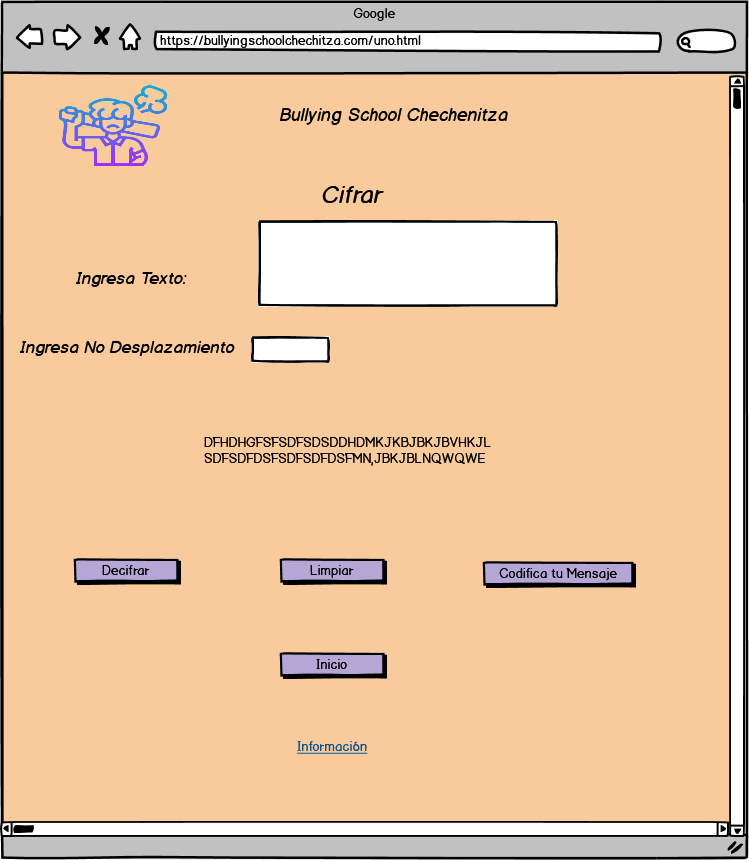
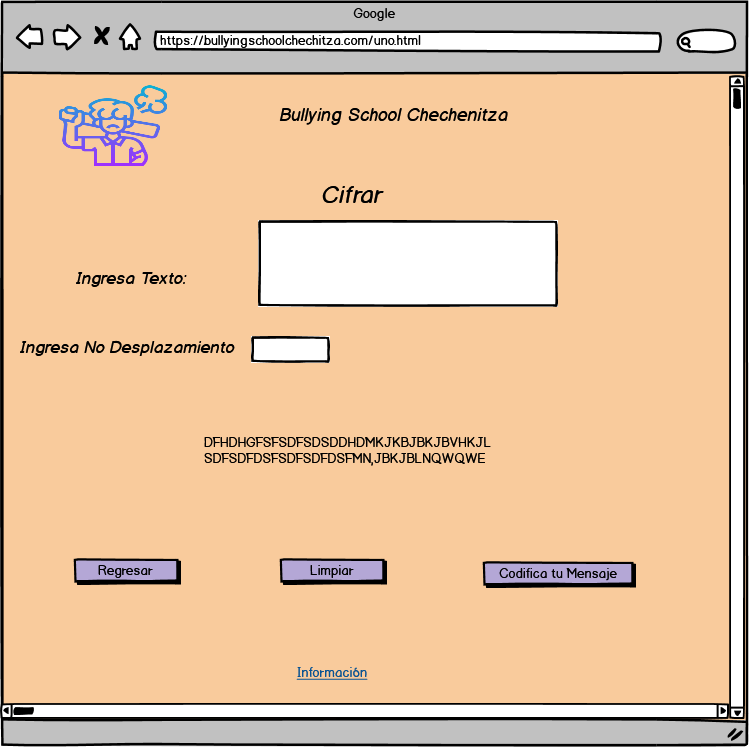
Revision Final

diff --git a/src/index.html b/src/index.html
@@ -40,6 +40,8 @@
         <!--CAJA CODIFICADO-->
 
         <div id="mensaje-encode" class="msg-encode">
+            <h1>Cifrar</h1>
+            <br>
             <p>Ingrese Su Mensaje:</p>
             <textarea id="box-msg-encode" class="box-msg-style" placeholder="Ingrese su mensaje..."></textarea>
             <div class="content-offset">
@@ -54,7 +56,7 @@
 
             <button  class="botonpantalla" id="regresar">Regresar</button>
             &nbsp;&nbsp;&nbsp;&nbsp; 
-            <button  class="botonpantalla" id="lim" onclick="location.reload()">Limpiar</button>
+            <button  class="botonpantalla" >Limpiar</button>
             &nbsp;&nbsp;&nbsp;&nbsp;
             <button id="btn_encode" class="botonpantalla">Codifica tu Mensaje</button>
             
@@ -63,6 +65,8 @@
         <!--CAJA DECODIFICADO-->
 
         <div id="mensaje-decode" class="msg-decode">
+            <h1>Descifrar</h1>
+            <br>
             <p>Ingrese Su Mensaje:</p>
             <textarea id="box-msg-decode" class="box-msg-style" placeholder="Ingrese su mensaje..."></textarea>
             <div class="content-offset">
@@ -76,13 +80,14 @@
             <br><br>
             <button  class="botonpantalla" id="regresar2">Regresar</button>
             &nbsp;&nbsp;&nbsp;&nbsp;
-            <button id="limp" class="botonpantalla">Limpiar</button>
+            <button id="pantalla-decode2" class="botonpantalla">Limpiar</button>
             &nbsp;&nbsp;&nbsp;&nbsp;
             <button id="btn_decode" class="botonpantalla">Decodifica tu Mensaje</button>
             
         </div>
     </section>
-
+    <br><br>
+    <footer><a href="#" id="info">Informacion</a></footer>
     <!--¡¡¡¡¡¡ESTE ARCHIVO NO SE TOCA!!!!!-->
     <div id="root"></div>
     <script src="cipher.js"></script>

diff --git a/src/index.js b/src/index.js
@@ -4,8 +4,8 @@ window.onload = () => {
     const pantallacifrado = document.getElementById("pantalla-encode");
     const pantalladecifrado= document.getElementById("pantalla-decode");
     const regresar = document.getElementById("regresar");
-    const borrar = document.getElementById
     const regresar2= document.getElementById("regresar2");
+    const informacion= document.getElementById("info");
     /*Mostrar datos para cifrar */
     pantallacifrado.addEventListener("click", function() {
        document.getElementById("mensaje-encode").style.display = 'block'; 
@@ -49,4 +49,10 @@ window.onload = () => {
         let number_offset = document.getElementById("numero-decode").value;
         document.getElementById("respuesta-decode").innerHTML = window.cipher.decode(textDecode, number_offset);
     });
+
+    informacion.addEventListener("click", function() {
+       alert("No puede utilizar la letra 'Ñ'");  
+     });
+
 }
+

diff --git a/src/style.css b/src/style.css
@@ -61,6 +61,10 @@ header{
 .msg-decode{
 	display: none; 
 }
+h1{
+	text-align: center;
+	font-size: 50px; 
+}
 p{
 	text-align: center;
 	font-size: 40px;  
